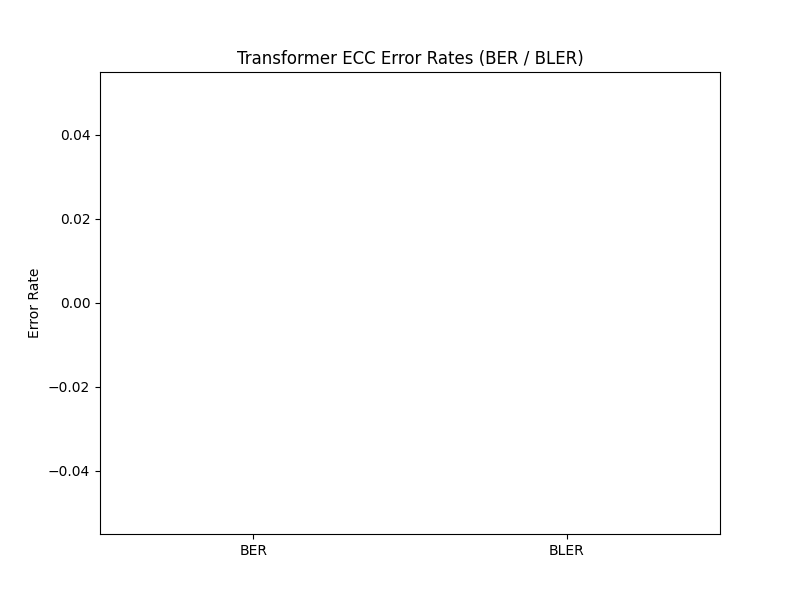
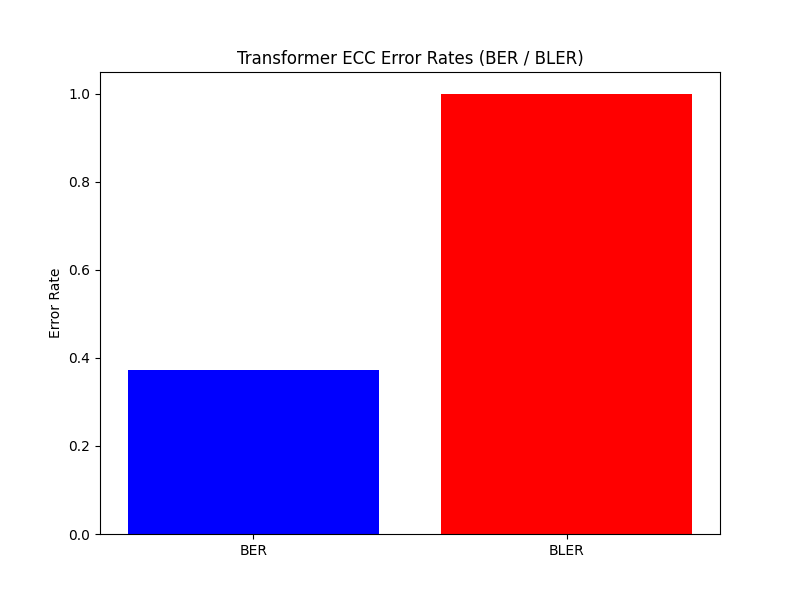
feat: add PCA evaluation and distance correlation metrics

diff --git a/eval_metrics.py b/eval_metrics.py
@@ -1,0 +1,88 @@
+import torch
+import torch.nn as nn
+import numpy as np
+import matplotlib.pyplot as plt
+from scipy.stats import pearsonr, spearmanr
+from dataset import EditDistanceDataset
+from model import Seq2SeqTransformer
+
+def levenshtein_distance(seq1: list, seq2: list) -> int:
+    size_x = len(seq1) + 1
+    size_y = len(seq2) + 1
+    matrix = np.zeros((size_x, size_y), dtype=int)
+    for x in range(size_x):
+        matrix[x, 0] = x
+    for y in range(size_y):
+        matrix[0, y] = y
+    for x in range(1, size_x):
+        for y in range(1, size_y):
+            if seq1[x-1] == seq2[y-1]:
+                matrix[x, y] = min(matrix[x-1, y] + 1, matrix[x, y-1] + 1, matrix[x-1, y-1])
+            else:
+                matrix[x, y] = min(matrix[x-1, y] + 1, matrix[x, y-1] + 1, matrix[x-1, y-1] + 1)
+    return matrix[size_x - 1, size_y - 1]
+
+def evaluate_metrics() -> None:
+    device = torch.device("cuda" if torch.cuda.is_available() else "cpu")
+    dataset_path = "dataset/edit_distance_dataset_K_90.h5"
+    dataset = EditDistanceDataset(dataset_path, max_seq_len=100)
+    subset_size = 12800
+    if len(dataset) > subset_size:
+        subset_indices = torch.randperm(len(dataset))[:subset_size].tolist()
+        dataset = torch.utils.data.Subset(dataset, subset_indices)
+    model = Seq2SeqTransformer()
+    model.load_state_dict(torch.load("model_weights.pth", map_location=device, weights_only=True))
+    model.to(device)
+    model.eval()
+    dataloader = torch.utils.data.DataLoader(dataset, batch_size=256, shuffle=False)
+    all_true_distances = []
+    all_pred_distances = []
+    print("Starting distance evaluation...")
+    with torch.no_grad():
+        for batch_idx, (orig_seq, orig_mask, edit_seq, edit_mask, dist_tensor) in enumerate(dataloader):
+            orig_seq = orig_seq.to(device)
+            orig_mask = orig_mask.to(device)
+            edit_seq = edit_seq.to(device)
+            edit_mask = edit_mask.to(device)
+            batch_size = edit_seq.size(0)
+            max_len = orig_seq.size(1)
+            tgt_input = torch.full((batch_size, 1), -1.0, dtype=torch.float32, device=device)
+            for step in range(max_len):
+                seq_len = tgt_input.size(1)
+                causal_mask = nn.Transformer.generate_square_subsequent_mask(seq_len).to(device)
+                logits = model(edit_seq, tgt_input, src_key_padding_mask=edit_mask, tgt_mask=causal_mask)
+                next_token_logits = logits[:, -1]
+                next_token = (next_token_logits > 0.0).float().unsqueeze(1)
+                tgt_input = torch.cat([tgt_input, next_token], dim=1)
+            predictions = tgt_input[:, 1:]
+            for i in range(batch_size):
+                valid_len = (~orig_mask[i]).sum().item()
+                true_seq_list = orig_seq[i][:valid_len].cpu().tolist()
+                pred_seq_list = predictions[i][:valid_len].cpu().tolist()
+                pred_dist = levenshtein_distance(true_seq_list, pred_seq_list)
+                true_dist = dist_tensor[i].item()
+                all_true_distances.append(true_dist)
+                all_pred_distances.append(pred_dist)
+            print(f"Evaluated Batch {batch_idx + 1}/{len(dataloader)}")
+    true_arr = np.array(all_true_distances)
+    pred_arr = np.array(all_pred_distances)
+    rmse = np.sqrt(np.mean((pred_arr - true_arr) ** 2))
+    mae = np.mean(np.abs(pred_arr - true_arr))
+    pearson_corr, _ = pearsonr(true_arr, pred_arr)
+    spearman_corr, _ = spearmanr(true_arr, pred_arr)
+    print("Metrics Evaluation Complete")
+    print(f"RMSE: {rmse:.4f}")
+    print(f"MAE: {mae:.4f}")
+    print(f"Pearson Correlation: {pearson_corr:.4f}")
+    print(f"Spearman Correlation: {spearman_corr:.4f}")
+    plt.figure(figsize=(8, 6))
+    plt.scatter(true_arr, pred_arr, alpha=0.5, s=2)
+    plt.plot([min(true_arr), max(true_arr)], [min(true_arr), max(true_arr)], 'r')
+    plt.xlabel("True Edit Distance")
+    plt.ylabel("Predicted Sequence Edit Distance")
+    plt.title("Transformer ECC: True vs Predicted Edit Distance")
+    plt.savefig("distance_scatter.png")
+    print("Scatter plot saved to distance_scatter.png")
+
+if __name__ == "__main__":
+    evaluate_metrics()

diff --git a/pca_analysis.py b/pca_analysis.py
@@ -1,0 +1,52 @@
+import torch
+import torch.nn as nn
+import numpy as np
+import matplotlib.pyplot as plt
+from sklearn.decomposition import PCA
+from dataset import EditDistanceDataset
+from model import Seq2SeqTransformer
+
+def run_pca() -> None:
+    device = torch.device("cuda" if torch.cuda.is_available() else "cpu")
+    dataset_path = "dataset/edit_distance_dataset_K_90.h5"
+    dataset = EditDistanceDataset(dataset_path, max_seq_len=100)
+    subset_size = 2000
+    if len(dataset) > subset_size:
+        subset_indices = torch.randperm(len(dataset))[:subset_size].tolist()
+        dataset = torch.utils.data.Subset(dataset, subset_indices)
+    dataloader = torch.utils.data.DataLoader(dataset, batch_size=256, shuffle=False)
+    model = Seq2SeqTransformer()
+    model.load_state_dict(torch.load("model_weights.pth", map_location=device, weights_only=True))
+    model.to(device)
+    model.eval()
+    embeddings = []
+    distances = []
+    print("Extracting high-dimensional encoder representations...")
+    with torch.no_grad():
+        for orig_seq, orig_mask, edit_seq, edit_mask, dist in dataloader:
+            edit_seq = edit_seq.to(device)
+            edit_mask = edit_mask.to(device)
+            src_exp = edit_seq.unsqueeze(-1)
+            src_emb = model.src_proj(src_exp)
+            src_pos = model.pos_encoder(src_emb)
+            memory = model.transformer.encoder(src_pos, src_key_padding_mask=edit_mask)
+            memory_pooled = memory.mean(dim=1)
+            embeddings.append(memory_pooled.cpu().numpy())
+            distances.append(dist.cpu().numpy())
+    embeddings_arr = np.concatenate(embeddings, axis=0)
+    distances_arr = np.concatenate(distances, axis=0)
+    print("Executing Principal Component Analysis...")
+    pca = PCA(n_components=2)
+    reduced_embeddings = pca.fit_transform(embeddings_arr)
+    plt.figure(figsize=(10, 8))
+    scatter = plt.scatter(reduced_embeddings[:, 0], reduced_embeddings[:, 1], c=distances_arr, cmap='viridis', alpha=0.7, s=15)
+    cbar = plt.colorbar(scatter)
+    cbar.set_label('True Edit Distance')
+    plt.xlabel(f"Principal Component 1 ({pca.explained_variance_ratio_[0]*100:.1f}%)")
+    plt.ylabel(f"Principal Component 2 ({pca.explained_variance_ratio_[1]*100:.1f}%)")
+    plt.title("PCA of Transformer Encoder Representations")
+    plt.savefig("pca_clusters.png")
+    print("PCA plot successfully saved to pca_clusters.png")
+
+if __name__ == "__main__":
+    run_pca()